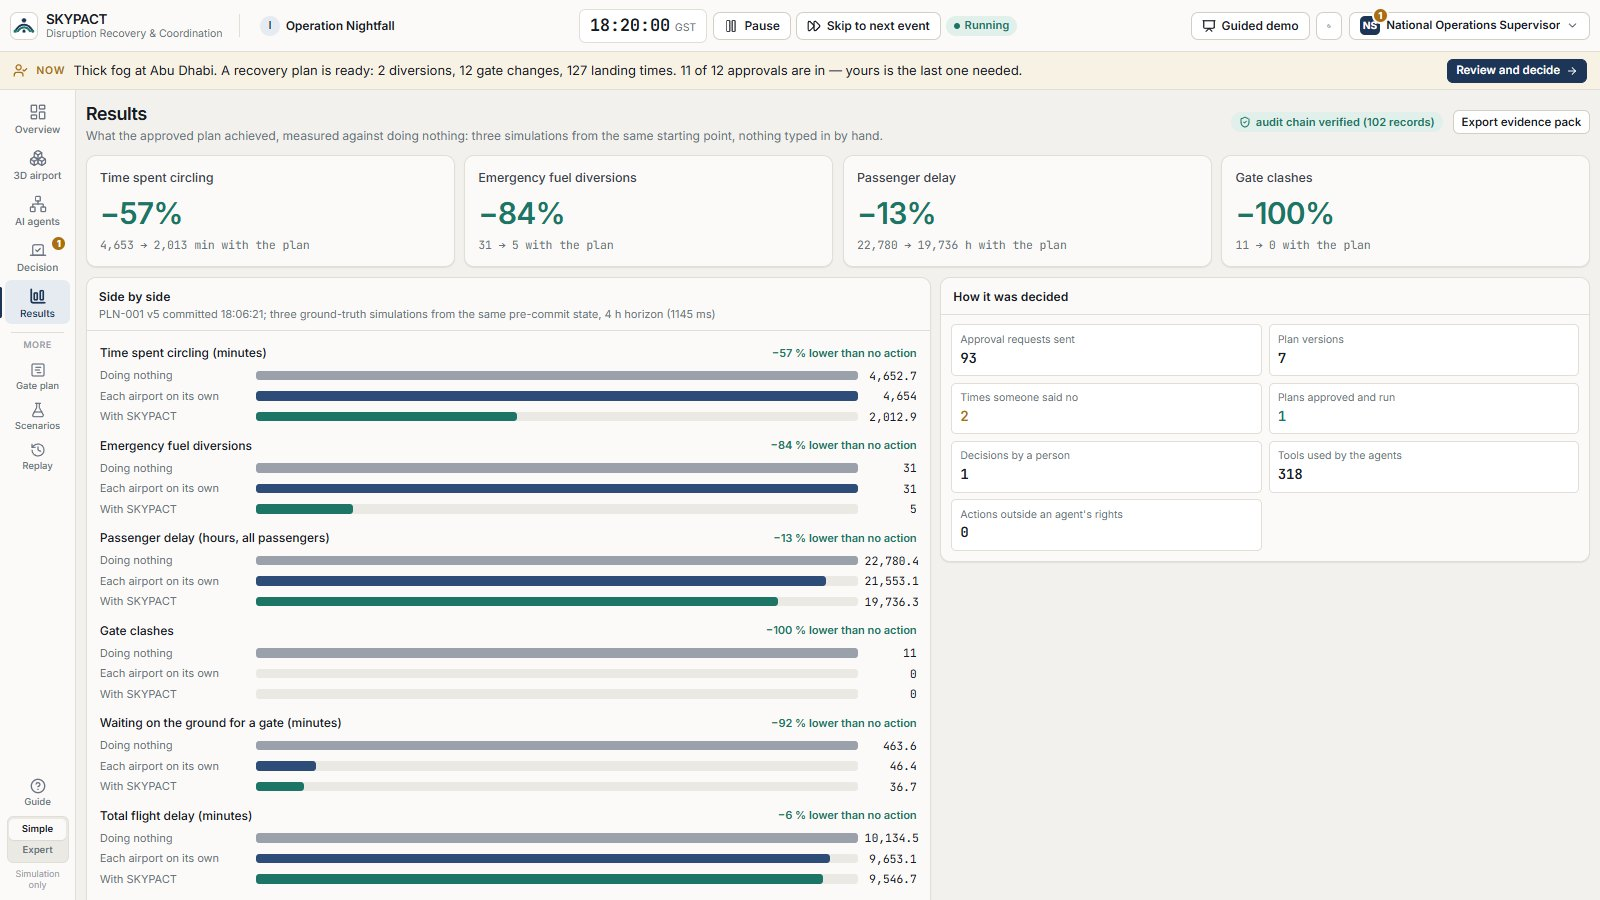
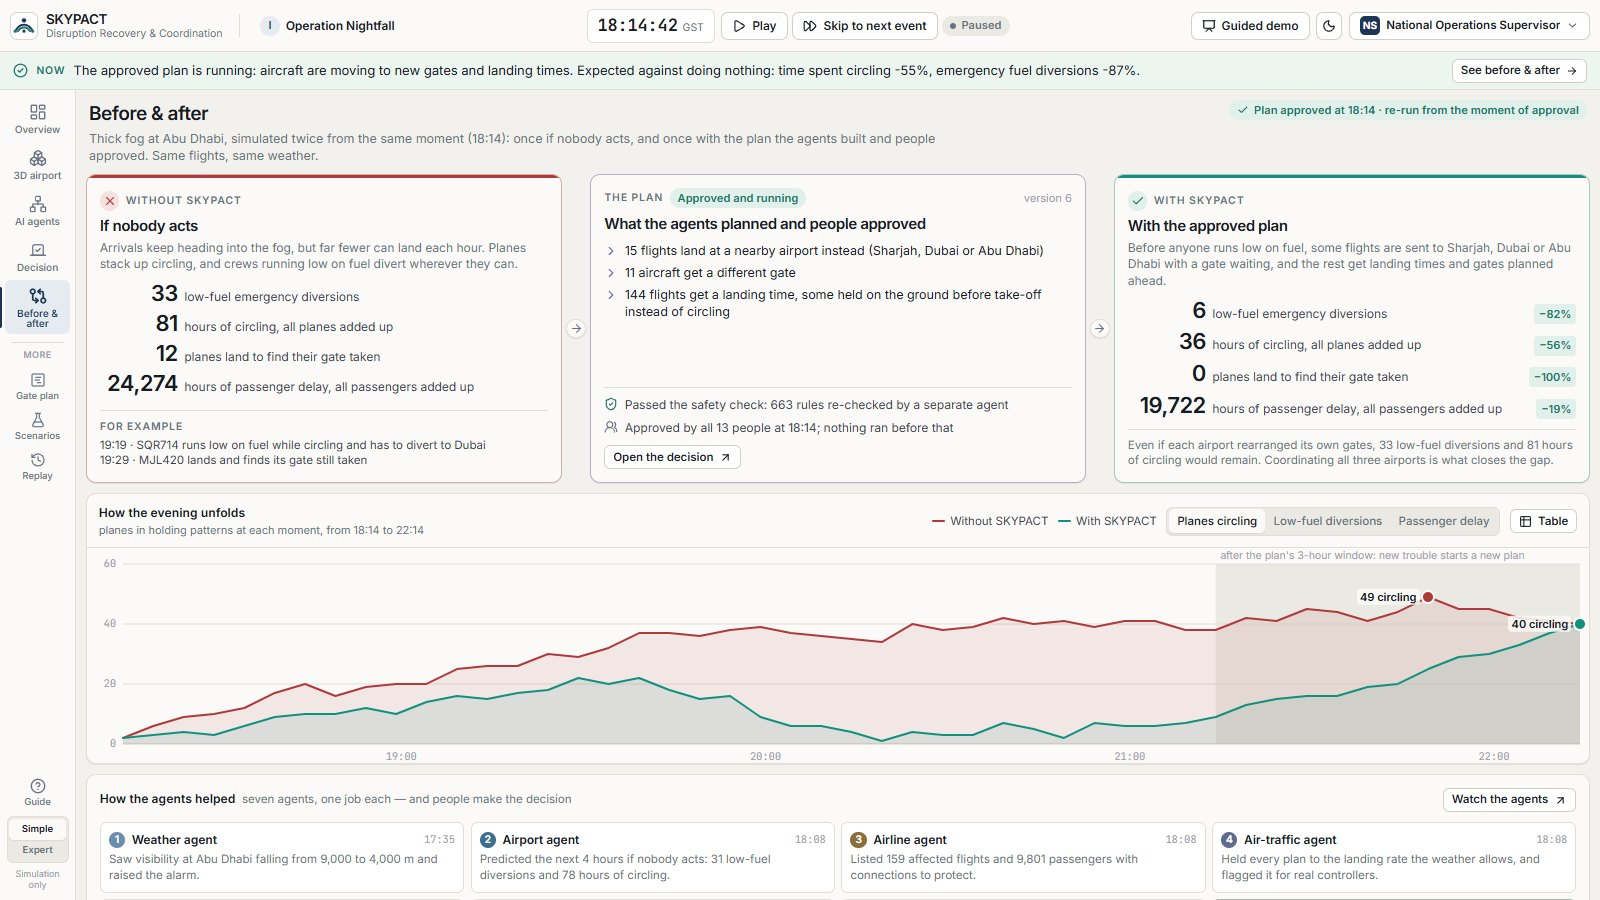
Show the Before & after page and the thicker fog in the README

diff --git a/README.md b/README.md
@@ -17,7 +17,7 @@ data and original Blender models.
 > All flights, airlines (11 fictional carriers) and operational numbers are **synthetic**. Airport geometry comes from
 > OpenStreetMap and public aeronautical information; nothing here represents real airline or airport operational data.
 
-![3D view of Abu Dhabi airport in night fog, with the recovery plan previewed in violet](docs/images/twin-auh-fog-night.jpg)
+![3D view of Abu Dhabi airport as thick fog rolls in at dusk, with the recovery plan previewed in violet](docs/images/twin-auh-fog-night.jpg)
 
 <sup>Screen captures of the running prototype (Operation Nightfall, seed 7; synthetic traffic, fictional airlines).</sup>
 
@@ -25,7 +25,7 @@ data and original Blender models.
 |---|---|
 | ![Terminal A, Zayed International](docs/images/twin-auh-terminal-a.jpg) | ![Sharjah International terminal](docs/images/twin-shj-terminal.jpg) |
 | ![Dubai International with a runway closed and diversions arriving](docs/images/twin-dxb-runway-closure.jpg) | ![AI agents: replaying the conversation between the agents](docs/images/agents-presentation.jpg) |
-| ![Decision: the problem, the plan, what it should achieve and who must approve](docs/images/workbench.jpg) | ![Results: the approved plan against doing nothing and each airport alone](docs/images/evidence.jpg) |
+| ![Decision: the problem, the plan, what it should achieve and who must approve](docs/images/workbench.jpg) | ![Before & after: the evening if nobody acts, the plan, and the same evening with the plan](docs/images/evidence.jpg) |
 
 ![Overview: the three airports, live traffic, what is wrong and what needs a decision](docs/images/command.jpg)
 
@@ -78,7 +78,7 @@ mode (switch at the bottom of the navigation) brings back every number, log and 
 | **3D airport** | Each airport in 3D from OpenStreetMap: liveried aircraft moving on the simulator's trajectories, docking jet bridges and turnaround vehicles, lighting from the real sun position, fog from the reported visibility, closures, gate status, taxi routes and the plan previewed in violet. Click any aircraft or gate. |
 | **AI agents** | An interactive scene of the seven agents and the people who decide, in the order they act: messages fly along the links, the working agent says what it is doing, each person shows their decision. Click an agent for its job, its limits and everything it did; hover a step of the story to light up the agents involved; replay the whole conversation. Expert adds the swim-lane sequence and the log of every message and tool call (including the model sent to HiGHS). |
 | **Decision** | The recovery plan in plain words — the problem if nobody acts, what the plan changes, what it should achieve against doing nothing, why it was chosen — and who has approved; your Approve / Say no buttons first. Expert adds candidates vs. baselines, every decision, validation detail, versions and the audit excerpt. |
-| **Results** | The approved plan measured against doing nothing and against each airport acting alone (same pre-commit state; the plan is projected on top of the same local handling, so the difference is the value of coordination). Expert adds optimiser statistics, provenance and the JSON evidence export. |
+| **Before & after** | The same evening simulated twice from the same moment: **without SKYPACT** (if nobody acts: aircraft stack up circling, crews divert on low fuel, gates clash), **the plan** the agents built and who approved it, and **with SKYPACT**, each with big numbers and the change. A chart shows both futures unfolding over four hours (planes circling, low-fuel diversions, passenger delay) with a crosshair readout and a table view, and a strip shows what each agent contributed. It works as soon as the agents have predicted the impact, while the plan awaits approval, and after approval (re-run from that moment). **Expert** turns it into the evidence view: the third baseline (each airport acting alone), optimiser statistics, provenance and the JSON evidence export. |
 | **Gate plan** | Per-gate timeline: planned, actual, estimated and proposed occupancy, conflicts and technical holds. |
 | **Scenarios** | Launch scenarios A–I or Nightfall, change the seed, or inject incidents (fog, storm, runway closure, blocked stand, priority arrival, diversion influx, resource outage, accessibility needs) — alone or simultaneously. |
 | **Replay** | Deterministic replay of the whole run from recorded inputs; re-simulate to any time. |
